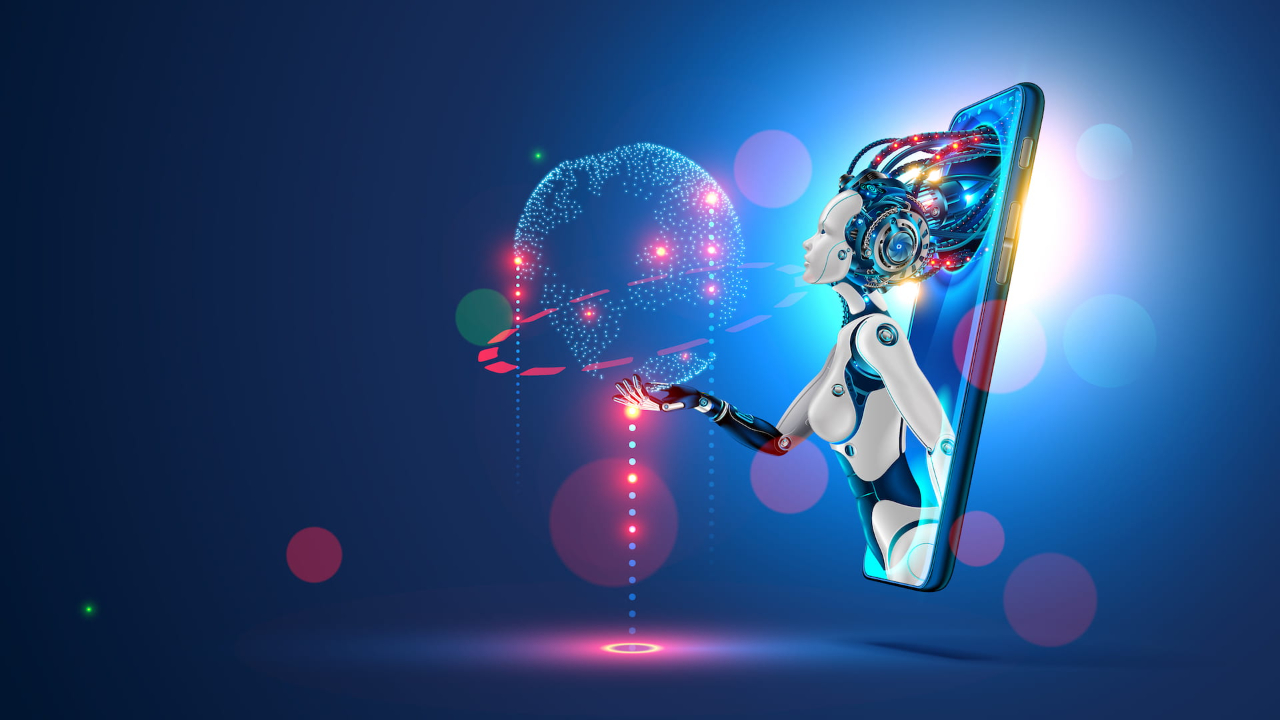
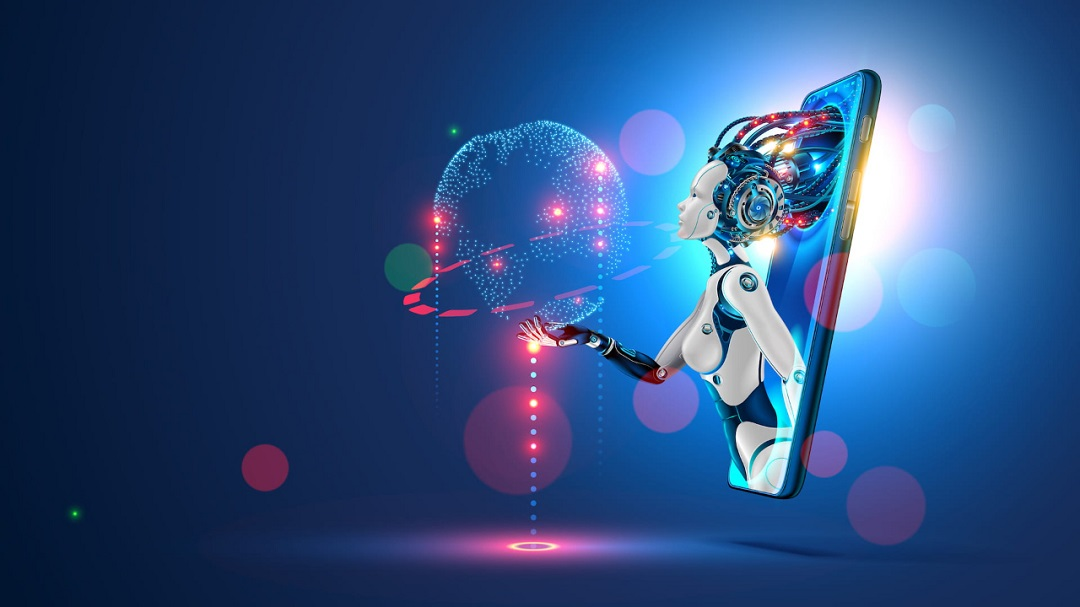
reduced the background image size

diff --git a/src/components/LoginForm.tsx b/src/components/LoginForm.tsx
@@ -33,7 +33,7 @@ export default function LoginForm() {
   return (
     <div className="flex items-center justify-center min-h-screen">
       <div className="flex flex-col items-center w-full max-w-md">
-        <h2 className=" text-xl md:text-3xl font-bold text-center mb-6 text-white text-wrap">
+        <h2 className=" text-xl md:text-3xl font-bold text-center mb-6 text-gray-100 text-wrap">
           Welcome to Chat Support Assistant
         </h2>
         <div className="bg-white p-8 shadow-lg rounded-[24px] w-80 md:w-[500px] h-[400px] overflow-auto">

diff --git a/src/app/login/page.tsx b/src/app/login/page.tsx
@@ -12,7 +12,6 @@ export default function LoginPage() {
                     backgroundSize: 'cover',
                     backgroundPosition: 'center',
                     backgroundRepeat: 'no-repeat',
-                    // filter: 'blur(3px)',
                     zIndex: -1,
                 }}
             ></div>
